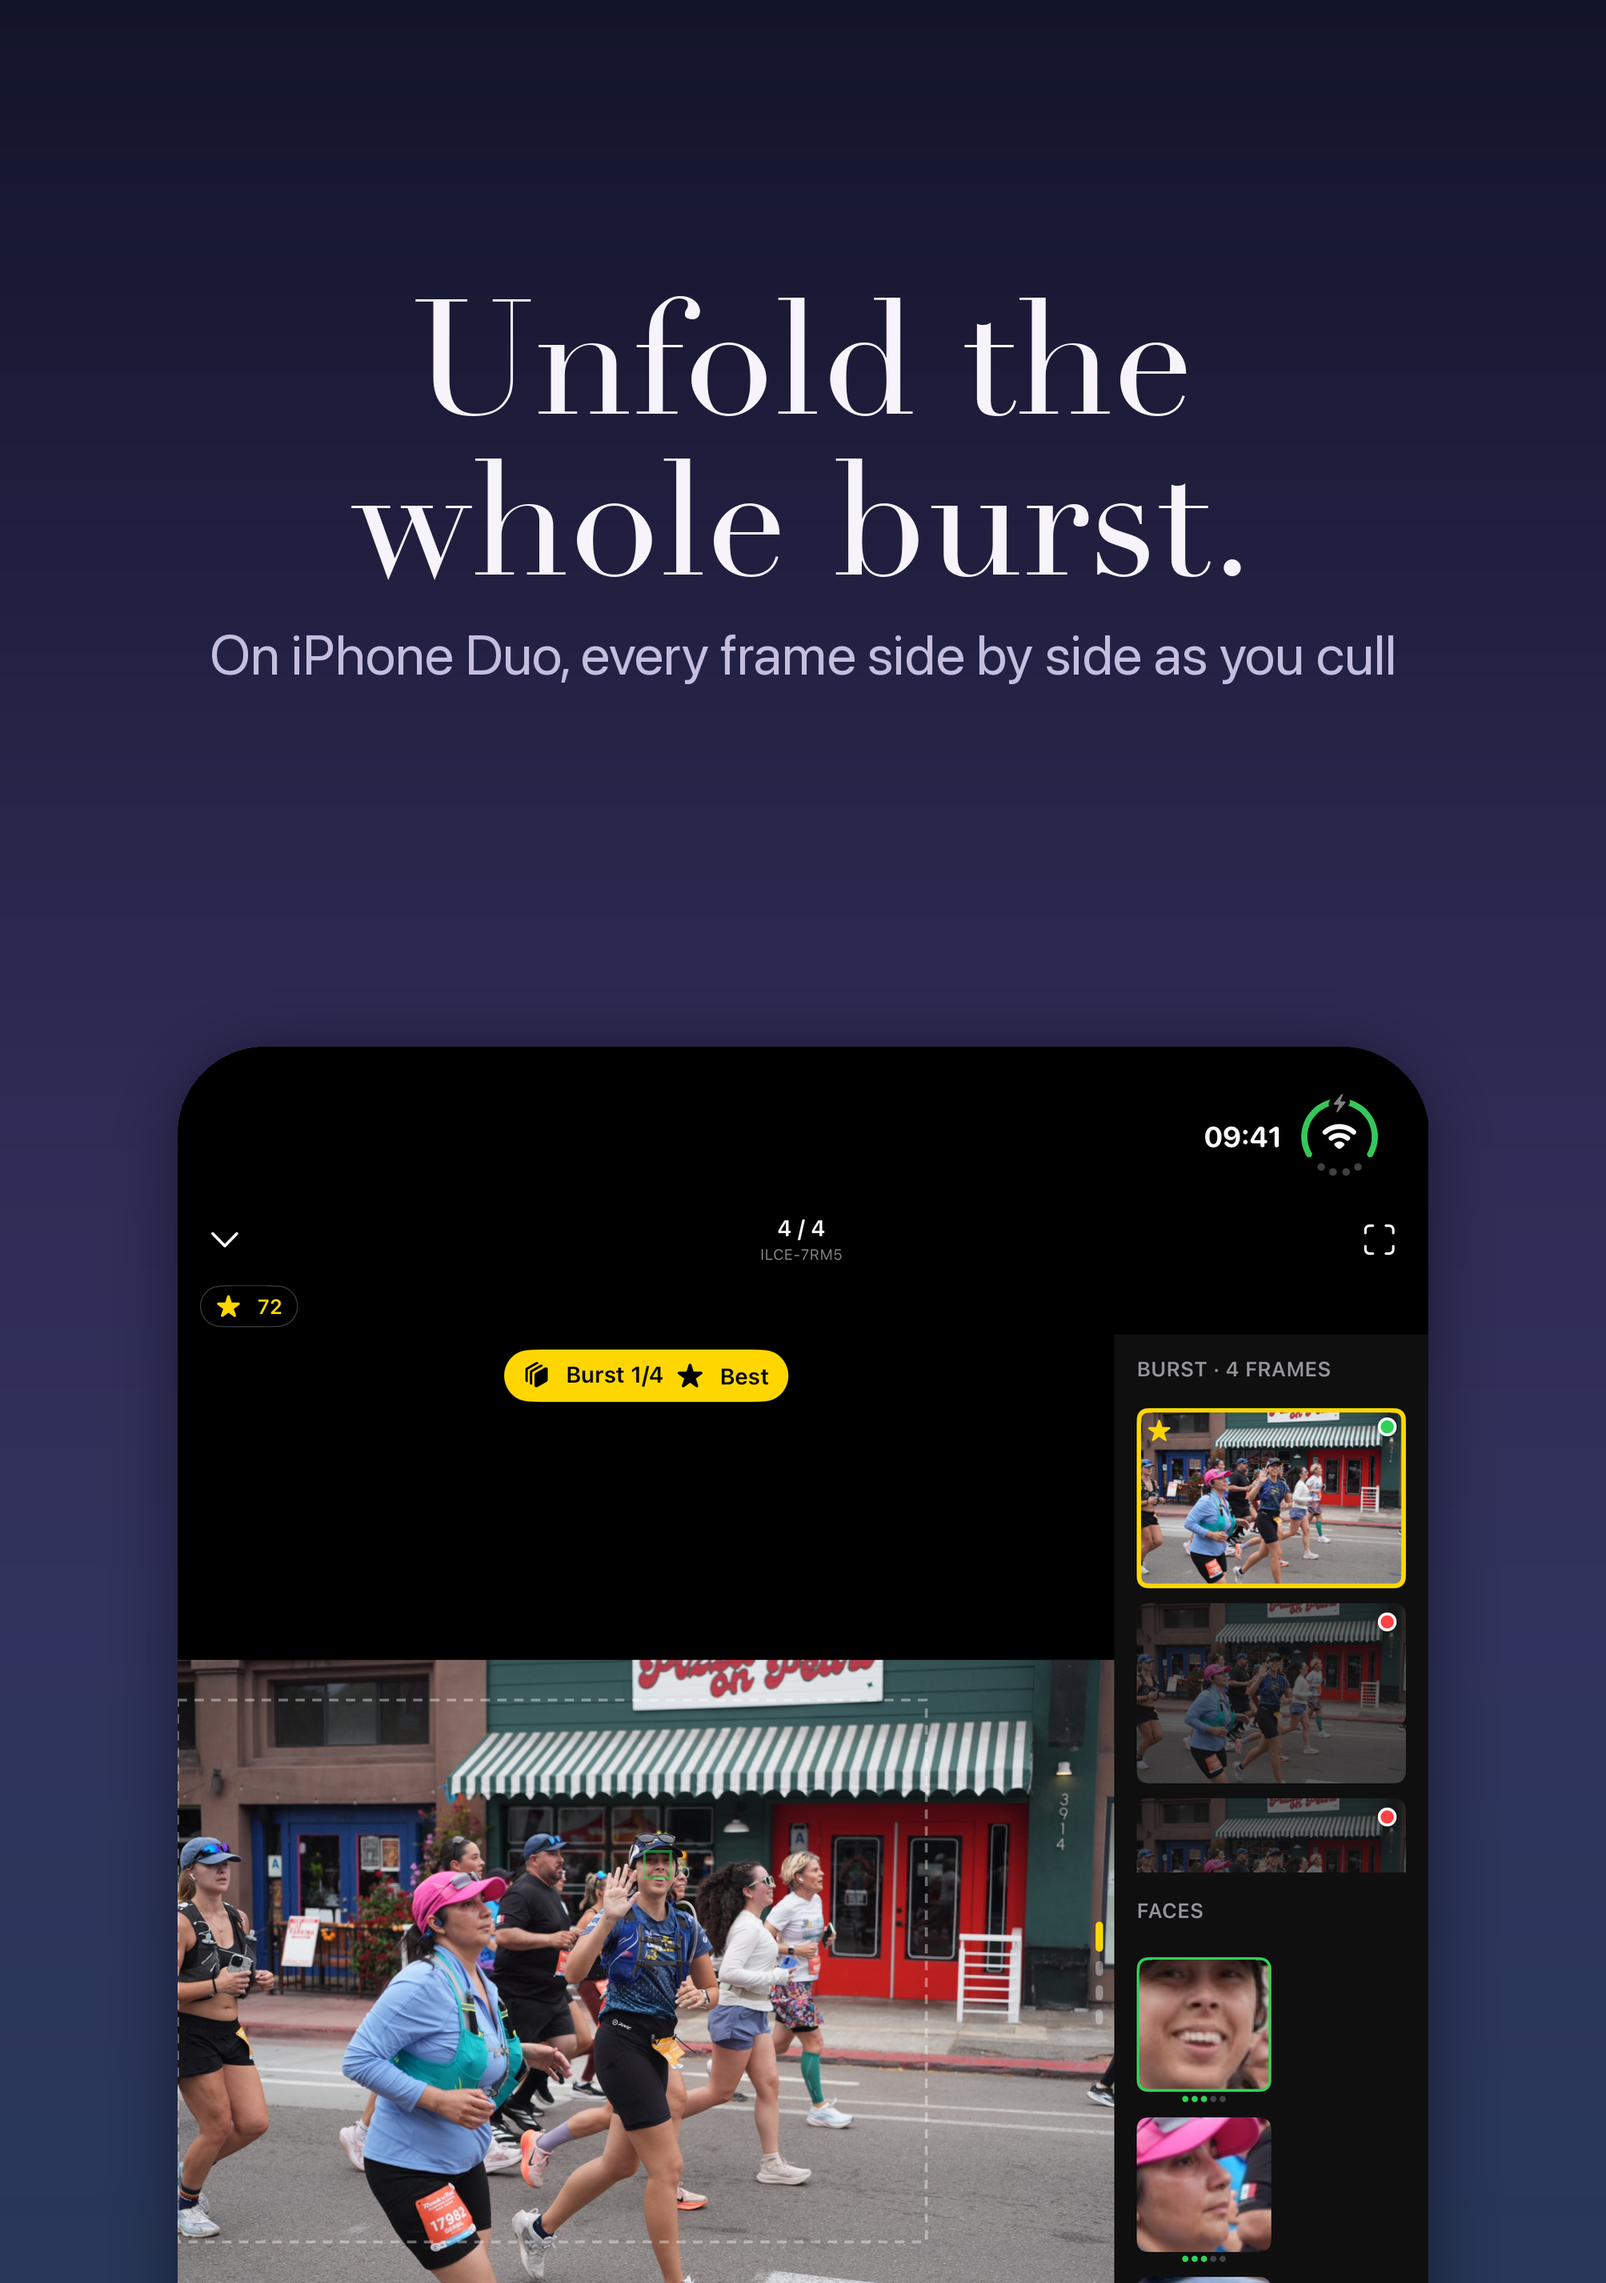
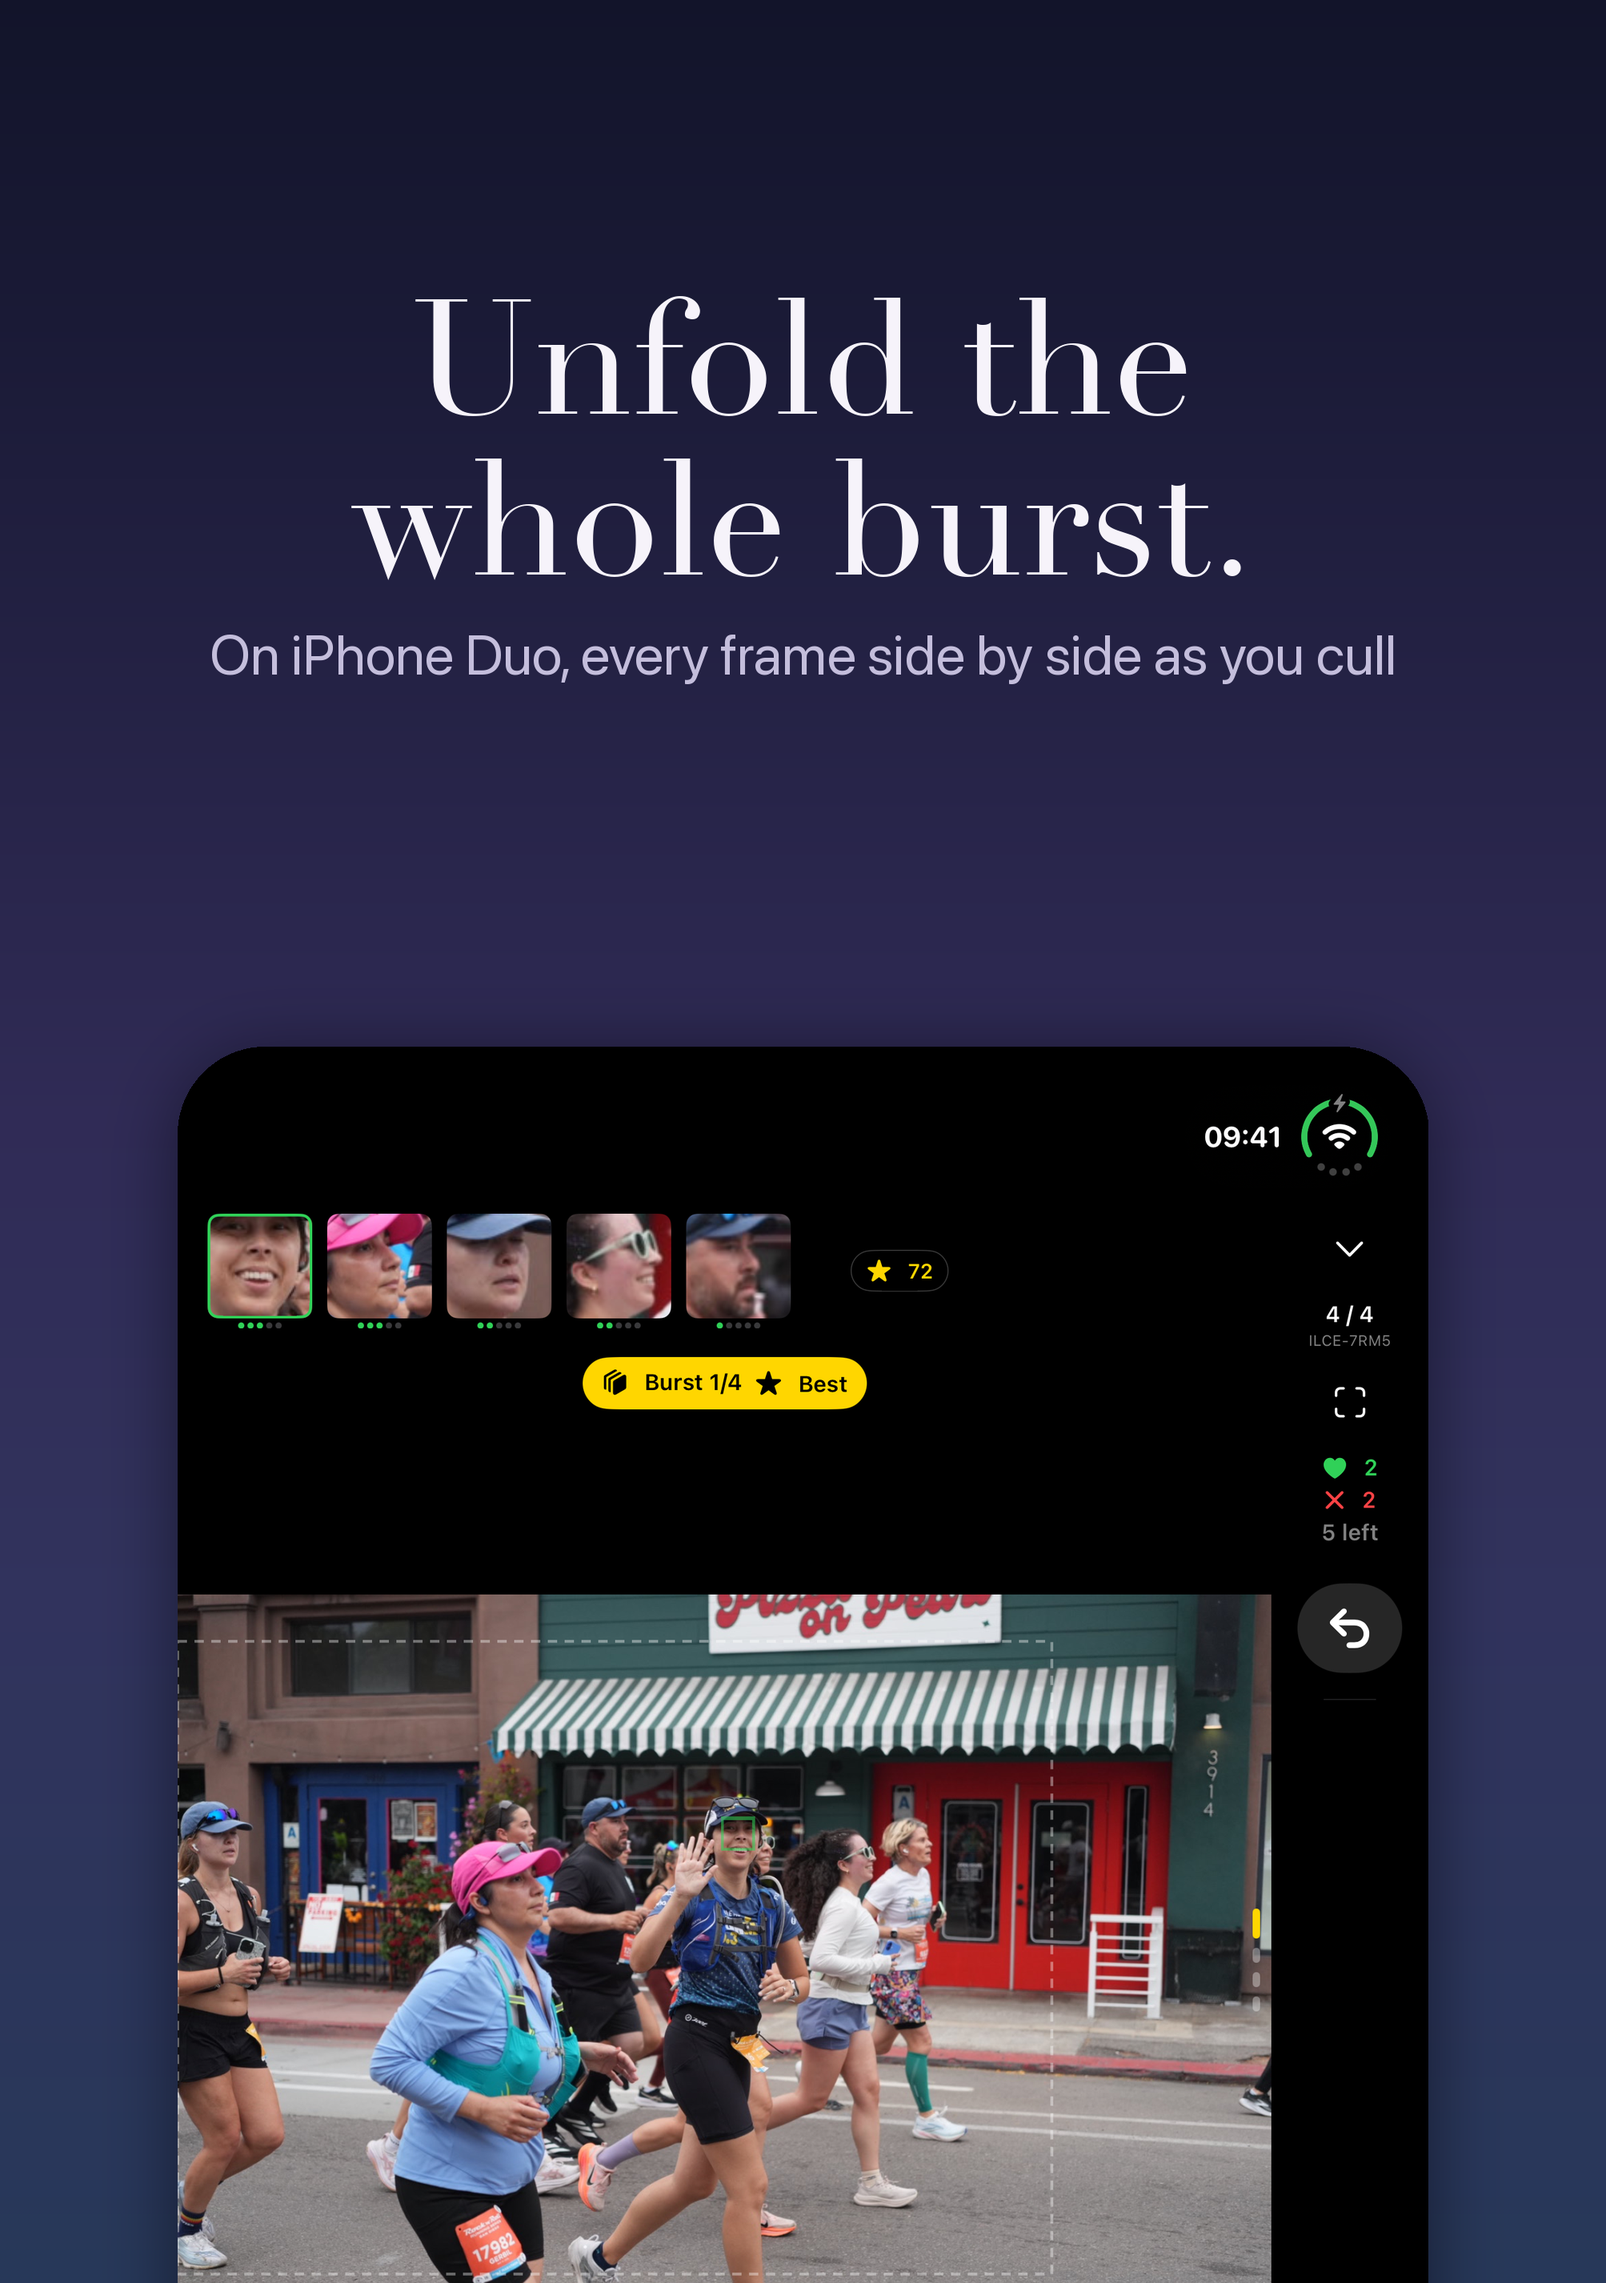
iPhone Duo unfolded: buttons in a right rail, info above/below, bigger photo
Per feedback: decision buttons (undo, crown, reject, keep) plus close /
counter / AF toggle / tally move to a narrow right rail; faces and signal
chips share one row above the photo; the burst filmstrip is a strip below.
No bottom bar or header row, so the photo gains ~18% width in landscape and
more height in portrait.

Fix: a paged TabView keeps its old scroll offset when its container resizes
(rotation, Duo fold/unfold), leaving the page shifted so the photo looked
cropped. The pager is rebuilt per viewport size (selection restores it).
Verified portrait -> landscape -> portrait on the Duo simulator and the
regular pager on a 6.9-inch iPhone. Build 5.

Changed region(s): [[0.0927, 0.5615, 0.8959, 1.0], [0.1236, 0.5303, 0.5561, 0.6239]]

diff --git a/App/UI/PagerView.swift b/App/UI/PagerView.swift
@@ -40,6 +40,9 @@ struct PagerView: View {
     /// While zoomed into a photo, all paging is off: drags pan the photo
     /// (Photos behavior).
     @State private var isZoomedIn = false
+    /// Changes when the pager's container resizes; rebuilds the paged
+    /// TabView so it can't keep a stale page offset.
+    @State private var viewportKey = ""
 
     /// `startMemberID` lets a grid tap land mid-burst on the exact frame.
     init(startGroup: Int, startMemberID: String?, provider: CullImageProvider) {
@@ -142,18 +145,26 @@ struct PagerView: View {
         return 600
     }
 
-    /// Expanded: the photo stays as big as the regular layout's, and the
-    /// extra width becomes a side panel that shows what a phone has to hide
-    /// — the whole burst at once, bigger face crops, the running tally.
+    /// Expanded (iPhone Duo unfolded): the photo gets as much of the canvas
+    /// as possible. Information keeps its familiar place — faces and signals
+    /// above the photo, the burst filmstrip below — and the decision buttons
+    /// move to a narrow rail on the right, under the thumb (as in landscape),
+    /// which frees the bottom bar's height for the photo.
     private var expandedLayout: some View {
-        VStack(spacing: 0) {
-            header
-            SignalStripView(record: currentAsset.flatMap { model.index[$0.id] })
-            HStack(spacing: 0) {
-                pager
-                VStack(alignment: .leading, spacing: 14) {
+        // Every row of chrome above or below the photo costs it height (the
+        // binding dimension for landscape photos when unfolded in
+        // landscape), so: no header row — its controls top the rail — and
+        // faces share one row with the signal chips.
+        HStack(spacing: 0) {
+                VStack(spacing: 0) {
+                    HStack(spacing: 4) {
+                        FaceStripView(assetID: currentAsset?.id, cropSize: 56)
+                            .fixedSize(horizontal: true, vertical: false)
+                        SignalStripView(record: currentAsset.flatMap { model.index[$0.id] })
+                    }
+                    .frame(height: 76)
+                    pager
                     if currentGroupItems.count > 1 {
-                        sidePanelLabel("Burst · \(currentGroupItems.count) frames")
                         BurstFilmstrip(
                             items: currentGroupItems,
                             currentID: currentAsset?.id,
@@ -161,36 +172,38 @@ struct PagerView: View {
                             revision: model.verdictRevision,
                             onSelect: { burstScrollTarget = $0 }
                         )
+                        .frame(height: 76)
+                        .padding(.top, 6)
                     }
-                    sidePanelLabel("Faces")
-                    FaceStripView(assetID: currentAsset?.id, axis: .vertical, cropSize: 72)
-                    Spacer(minLength: 0)
-                    tallyView
+                    positionBar
                 }
-                .padding(12)
-                .frame(width: 168)
-                .background(Color(white: 0.06))
-            }
-            positionBar
-            ratingBar
+                VStack(spacing: 10) {
+                    Button { dismiss() } label: {
+                        Image(systemName: "chevron.down").frame(width: 44, height: 36)
+                    }
+                    counterView
+                    Button { showsAFOverlay.toggle() } label: {
+                        Image(systemName: showsAFOverlay ? "viewfinder" : "viewfinder.trianglebadge.exclamationmark")
+                            .frame(width: 44, height: 36)
+                    }
+                    tallyView
+                    rightRail
+                }
+                .foregroundStyle(.white)
+                .frame(width: 84)
+                .padding(.vertical, 8)
         }
-    }
-
-    private func sidePanelLabel(_ text: String) -> some View {
-        Text(text.uppercased())
-            .font(.caption2.bold())
-            .foregroundStyle(.secondary)
     }
 
     private var tallyView: some View {
         let counts = model.verdictCounts
         let decided = counts[.keep, default: 0] + counts[.reject, default: 0]
-        return VStack(alignment: .leading, spacing: 4) {
+        return VStack(spacing: 3) {
             Label("\(counts[.keep, default: 0])", systemImage: "heart.fill").foregroundStyle(.green)
             Label("\(counts[.reject, default: 0])", systemImage: "xmark").foregroundStyle(.red)
-            Text("\(model.items.count - decided) to go").foregroundStyle(.secondary)
+            Text("\(model.items.count - decided) left").foregroundStyle(.secondary)
         }
-        .font(.callout.bold())
+        .font(.caption.bold())
         .monospacedDigit()
     }
 
@@ -285,6 +298,7 @@ struct PagerView: View {
     /// Folding/unfolding (iPhone Duo) or rotating changes the viewport:
     /// size previews to it, and re-focus so frames in view upgrade.
     private func viewportChanged(_ size: CGSize) {
+        viewportKey = "\(Int(size.width))x\(Int(size.height))"
         loader?.updateViewport(size, scale: displayScale)
         focusLoader()
     }
@@ -330,6 +344,11 @@ struct PagerView: View {
         }
         .tabViewStyle(.page(indexDisplayMode: .never))
         .scrollDisabled(isZoomedIn)
+        // A paged TabView keeps its old scroll offset when its container
+        // resizes (rotation, iPhone Duo fold/unfold), leaving the page
+        // shifted sideways — the photo looked cropped. Rebuild it per
+        // viewport size; the selection binding restores the position.
+        .id(viewportKey)
     }
 
     @ViewBuilder
@@ -695,8 +714,9 @@ private struct PagerFrameView: View {
     }
 }
 
-/// Every frame of the current burst at once (expanded layout): verdict dot,
-/// best-frame star, current frame ringed. Tap to jump to a frame.
+/// Every frame of the current burst at once (expanded layout), as a strip
+/// below the photo: verdict dot, best-frame star, current frame ringed. Tap
+/// to jump to a frame.
 private struct BurstFilmstrip: View {
     @Environment(AppModel.self) private var model
     let items: [CullItem]
@@ -708,15 +728,21 @@ private struct BurstFilmstrip: View {
     @State private var thumbs: [String: UIImage] = [:]
 
     var body: some View {
-        ScrollView(.vertical, showsIndicators: false) {
-            VStack(spacing: 8) {
-                ForEach(items) { item in
-                    Button { onSelect(item.id) } label: { cell(item) }
-                        .buttonStyle(.plain)
+        ScrollViewReader { proxy in
+            ScrollView(.horizontal, showsIndicators: false) {
+                HStack(spacing: 6) {
+                    ForEach(items) { item in
+                        Button { onSelect(item.id) } label: { cell(item) }
+                            .buttonStyle(.plain)
+                            .id(item.id)
+                    }
                 }
+                .padding(.horizontal, 10)
+            }
+            .onChange(of: currentID) { _, id in
+                if let id { withAnimation { proxy.scrollTo(id, anchor: .center) } }
             }
         }
-        .frame(maxHeight: 520)
         .task(id: "\(items.map(\.id))#\(model.imageRevision)") {
             for item in items {
                 model.imageProvider.requestThumbnail(for: item, targetSize: CGSize(width: 300, height: 300)) { image in
@@ -729,10 +755,10 @@ private struct BurstFilmstrip: View {
     private func cell(_ item: CullItem) -> some View {
         let _ = revision
         let verdict = model.verdict(for: item)
-        // Each cell takes its photo's own aspect, so portrait frames aren't
-        // cropped to a landscape tile (eyes/faces are what you compare).
+        // Each cell takes its photo's own aspect at a fixed height, so
+        // portrait frames aren't cropped to a landscape tile.
         let image = thumbs[item.id]
-        let aspect = image.map { $0.size.height / max($0.size.width, 1) } ?? (2.0 / 3.0)
+        let aspect = image.map { $0.size.width / max($0.size.height, 1) } ?? 1.5
         return ZStack {
             if let image {
                 Image(uiImage: image).resizable().aspectRatio(contentMode: .fill)
@@ -740,11 +766,11 @@ private struct BurstFilmstrip: View {
                 Color(white: 0.12)
             }
         }
-        .frame(width: 144, height: 144 * aspect)
+        .frame(width: 68 * aspect, height: 68)
         .clipShape(RoundedRectangle(cornerRadius: 6))
         .opacity(verdict == .reject ? 0.4 : 1)
         .overlay(RoundedRectangle(cornerRadius: 6)
-            .strokeBorder(.yellow, lineWidth: item.id == currentID ? 2.5 : 0))
+            .strokeBorder(.yellow, lineWidth: item.id == currentID ? 2 : 0))
         .overlay(alignment: .topTrailing) {
             if verdict == .keep || verdict == .reject {
                 Circle().fill(verdict == .keep ? Color.green : Color.red)
